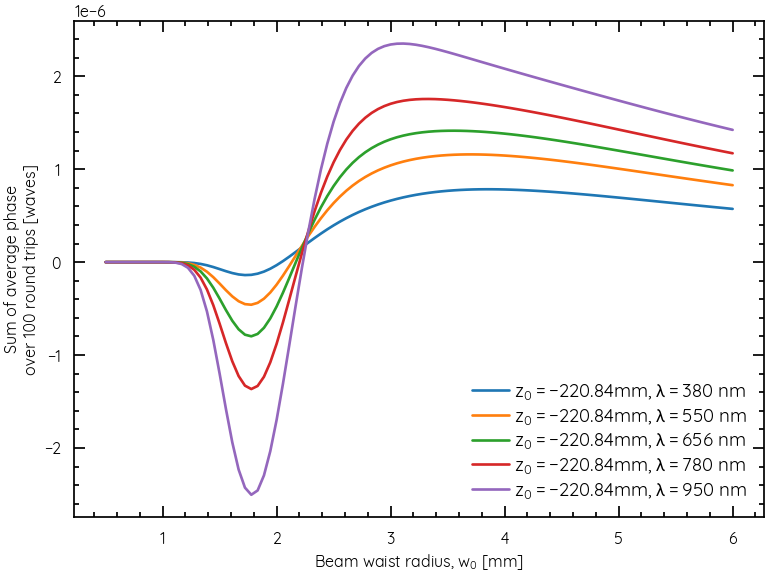
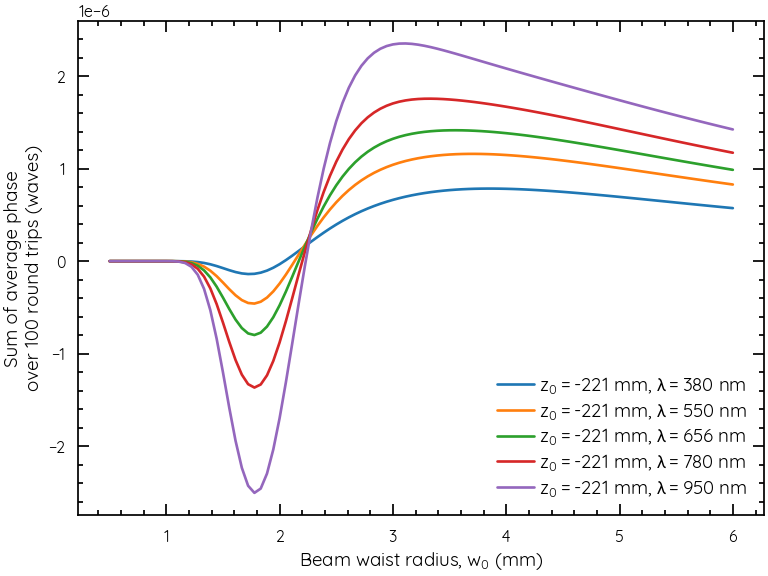
Update etalon plots for thesis

diff --git a/example_scripts/EtalonSim/etalon_gaussian_beam_phase_difference_preintegrated_with_several_z_offsets.py b/example_scripts/EtalonSim/etalon_gaussian_beam_phase_difference_preintegrated_with_several_z_offsets.py
@@ -49,7 +49,7 @@ def main() -> None:
             [mirror_reflectivity ** (n) for n in range(1, len(Zs) + 1)]
         )
 
-        waist_radii = np.linspace(0.5, 4, 100) * u.mm
+        waist_radii = np.linspace(0.5, 8, 100) * u.mm
         # Zoom in to close-to-zero region
         # waist_radii = np.linspace(0.05, 1.75, 50) * u.mm
 
@@ -65,24 +65,42 @@ def main() -> None:
         ax.plot(
             waist_radii,
             summed_average_phase_differences,
-            label=f"z_0={(z0 * u.mm).to('m')}",
+            label=f"$z_0 = ${(z0 * u.mm).to(u.m)}",
         )
 
-    # ax.set_yscale("log")
-    # ax.set_ylim(-1.5, 1.5)
+        if int(z0) == z0:
+            text = f"$z_0 = ${(z0 * u.mm).to(u.m)}"
+        else:
+            text = f"$z_0 = ${z0 * u.mm:.2f}"
 
-    ax.set_xlabel("Beam waist radius, $w_0$ [mm]")
-    ax.set_ylabel(f"Sum of average phase\nover {num_round_trips} round trips [waves]")
+        ax.text(
+            waist_radii[-1].value + 0.25,
+            summed_average_phase_differences[-1],
+            s=text,
+            fontsize=14,
+            ha="left",
+            va="center",
+            # bbox={
+            #     "boxstyle": "round,pad=0.3",
+            #     "facecolor": "white",
+            #     "edgecolor": "black",
+            #     "alpha": 0.5,
+            # },
+        )
 
-    ax.legend()
+    ax.set_xlim(0, 11)
+
+    ax.set_xlabel("Beam waist radius, $w_0$ (mm)", size=14)
+    ax.set_ylabel(
+        f"Integrated phase over {num_round_trips} round trips\n(waves)", size=14
+    )
+
+    # ax.legend(frameon=True, loc="upper left")
 
     Path(SCRIPT_PATH / "plots").mkdir(exist_ok=True)
     plt.savefig(SCRIPT_PATH / "plots" / f"{SCRIPT_NAME}.png")
 
-    ax.set_yscale("log")
-    plt.savefig(SCRIPT_PATH / "plots" / f"{SCRIPT_NAME}_log.png")
-
-    # plt.show()
+    plt.show()
 
 
 if __name__ == "__main__":

diff --git a/example_scripts/EtalonSim/gaussian_beam_parameters.py b/example_scripts/EtalonSim/gaussian_beam_parameters.py
@@ -38,7 +38,7 @@ def main() -> None:
     num_round_trips = 100
     wavelength = mirror_spacing / int(mirror_spacing / (780 * u.nm))
 
-    waist_radii = np.linspace(0.005, 15, 80) * u.mm
+    waist_radii = np.linspace(0.005, 15, 200) * u.mm
 
     z_Rs = []
     R_halfs = []  # beam wavefront radius in middle of etalon
@@ -89,19 +89,15 @@ def main() -> None:
 
     ax.legend()
 
-    ax.set_title(
-        "Normalised beam properties as a function of waist radius $w_0$", size=18
-    )
+    # ax.set_title("Normalised beam properties as a function of waist radius $w_0$")
     ax.set_xlabel("Beam waist $w_0$")
-    # ax.set_ylabel("Phase offset [cycles]")
+    ax.set_ylabel("Normalised value")
 
     ax.set_xlim(0, max(waist_radii).value)
     ax.set_ylim(-0.05, 1.5)
 
     Path(SCRIPT_PATH / "plots").mkdir(parents=True, exist_ok=True)
     plt.savefig(SCRIPT_PATH / "plots" / f"{SCRIPT_NAME}.png")
-
-    plt.show()
 
 
 if __name__ == "__main__":

diff --git a/example_scripts/EtalonSim/etalon_gaussian_beam_comparing_gouy_and_radial_phase.py b/example_scripts/EtalonSim/etalon_gaussian_beam_comparing_gouy_and_radial_phase.py
@@ -99,12 +99,12 @@ def main() -> None:
         )
 
     ax.plot(0, 0, color="k", alpha=0.75, ls="--", label="Gouy phase")
-    ax.plot(0, 0, color="k", alpha=0.75, ls="-.", label="radial phase (absolute)")
+    ax.plot(0, 0, color="k", alpha=0.75, ls="-.", label="Radial phase (absolute)")
 
     # ax.set_title(f"Gouy phase and radial phase\nintegrated out to $r={r}$")
 
-    ax.set_xlabel("propagation distance z [mm]")
-    ax.set_ylabel("average phase [cycles]")
+    ax.set_xlabel("Propagation distance z (mm)", size=14)
+    ax.set_ylabel("Integrated phase (waves)", size=14)
 
     ax.legend()
 
@@ -112,8 +112,6 @@ def main() -> None:
     plt.savefig(SCRIPT_PATH / "plots" / f"{SCRIPT_NAME}.png", dpi=300)
 
     plt.show()
-
-    # plt.savefig(f"plots/{os.path.basename(__file__).split('.')[0]}.png")
 
 
 if __name__ == "__main__":

diff --git a/example_scripts/EtalonSim/etalon_gaussian_beam_phase_difference_preintegrated.py b/example_scripts/EtalonSim/etalon_gaussian_beam_phase_difference_preintegrated.py
@@ -65,7 +65,7 @@ def main() -> None:
     ax.plot(
         waist_radii,
         summed_average_phase_differences,
-        label=f"$z_0={z0 * u.mm.to('m')}$, $\\lambda=${wavelength:.0f}",
+        label=f"$z_0 = ${z0 * u.mm.to('m')}, $\\lambda = ${wavelength:.0f}",
     )
 
     # ax.set_yscale("log")
@@ -73,7 +73,7 @@ def main() -> None:
     ax.legend()
 
     ax.set_xlabel("Beam waist radius, $w_0$ [mm]")
-    ax.set_ylabel(f"Sum of average phase\nover {num_round_trips} round trips")
+    ax.set_ylabel(f"Integrated phase over {num_round_trips} round trips\n(waves)")
 
     Path(SCRIPT_PATH / "plots").mkdir(exist_ok=True)
     plt.savefig(SCRIPT_PATH / "plots" / f"{SCRIPT_NAME}.png")

diff --git a/example_scripts/EtalonSim/etalon_gaussian_beam_phase_difference_preintegrated_with_wavelength.py b/example_scripts/EtalonSim/etalon_gaussian_beam_phase_difference_preintegrated_with_wavelength.py
@@ -70,15 +70,17 @@ def main() -> None:
             ax.plot(
                 waist_radii,
                 summed_average_phase_differences,
-                label=f"$z_0={z0 * u.mm}$, $\\lambda=${wl:.0f}",
+                label=f"$z_0 = ${z0 * u.mm:.0f}, $\\lambda = ${wl:.0f}",
             )
 
     # ax.set_yscale("log")
 
     # ax.set_ylim(-5, 5)
 
-    ax.set_xlabel("Beam waist radius, $w_0$ [mm]")
-    ax.set_ylabel(f"Sum of average phase\nover {num_round_trips} round trips [waves]")
+    ax.set_xlabel("Beam waist radius, $w_0$ (mm)", size=14)
+    ax.set_ylabel(
+        f"Sum of average phase\nover {num_round_trips} round trips (waves)", size=14
+    )
 
     ax.legend()
 
